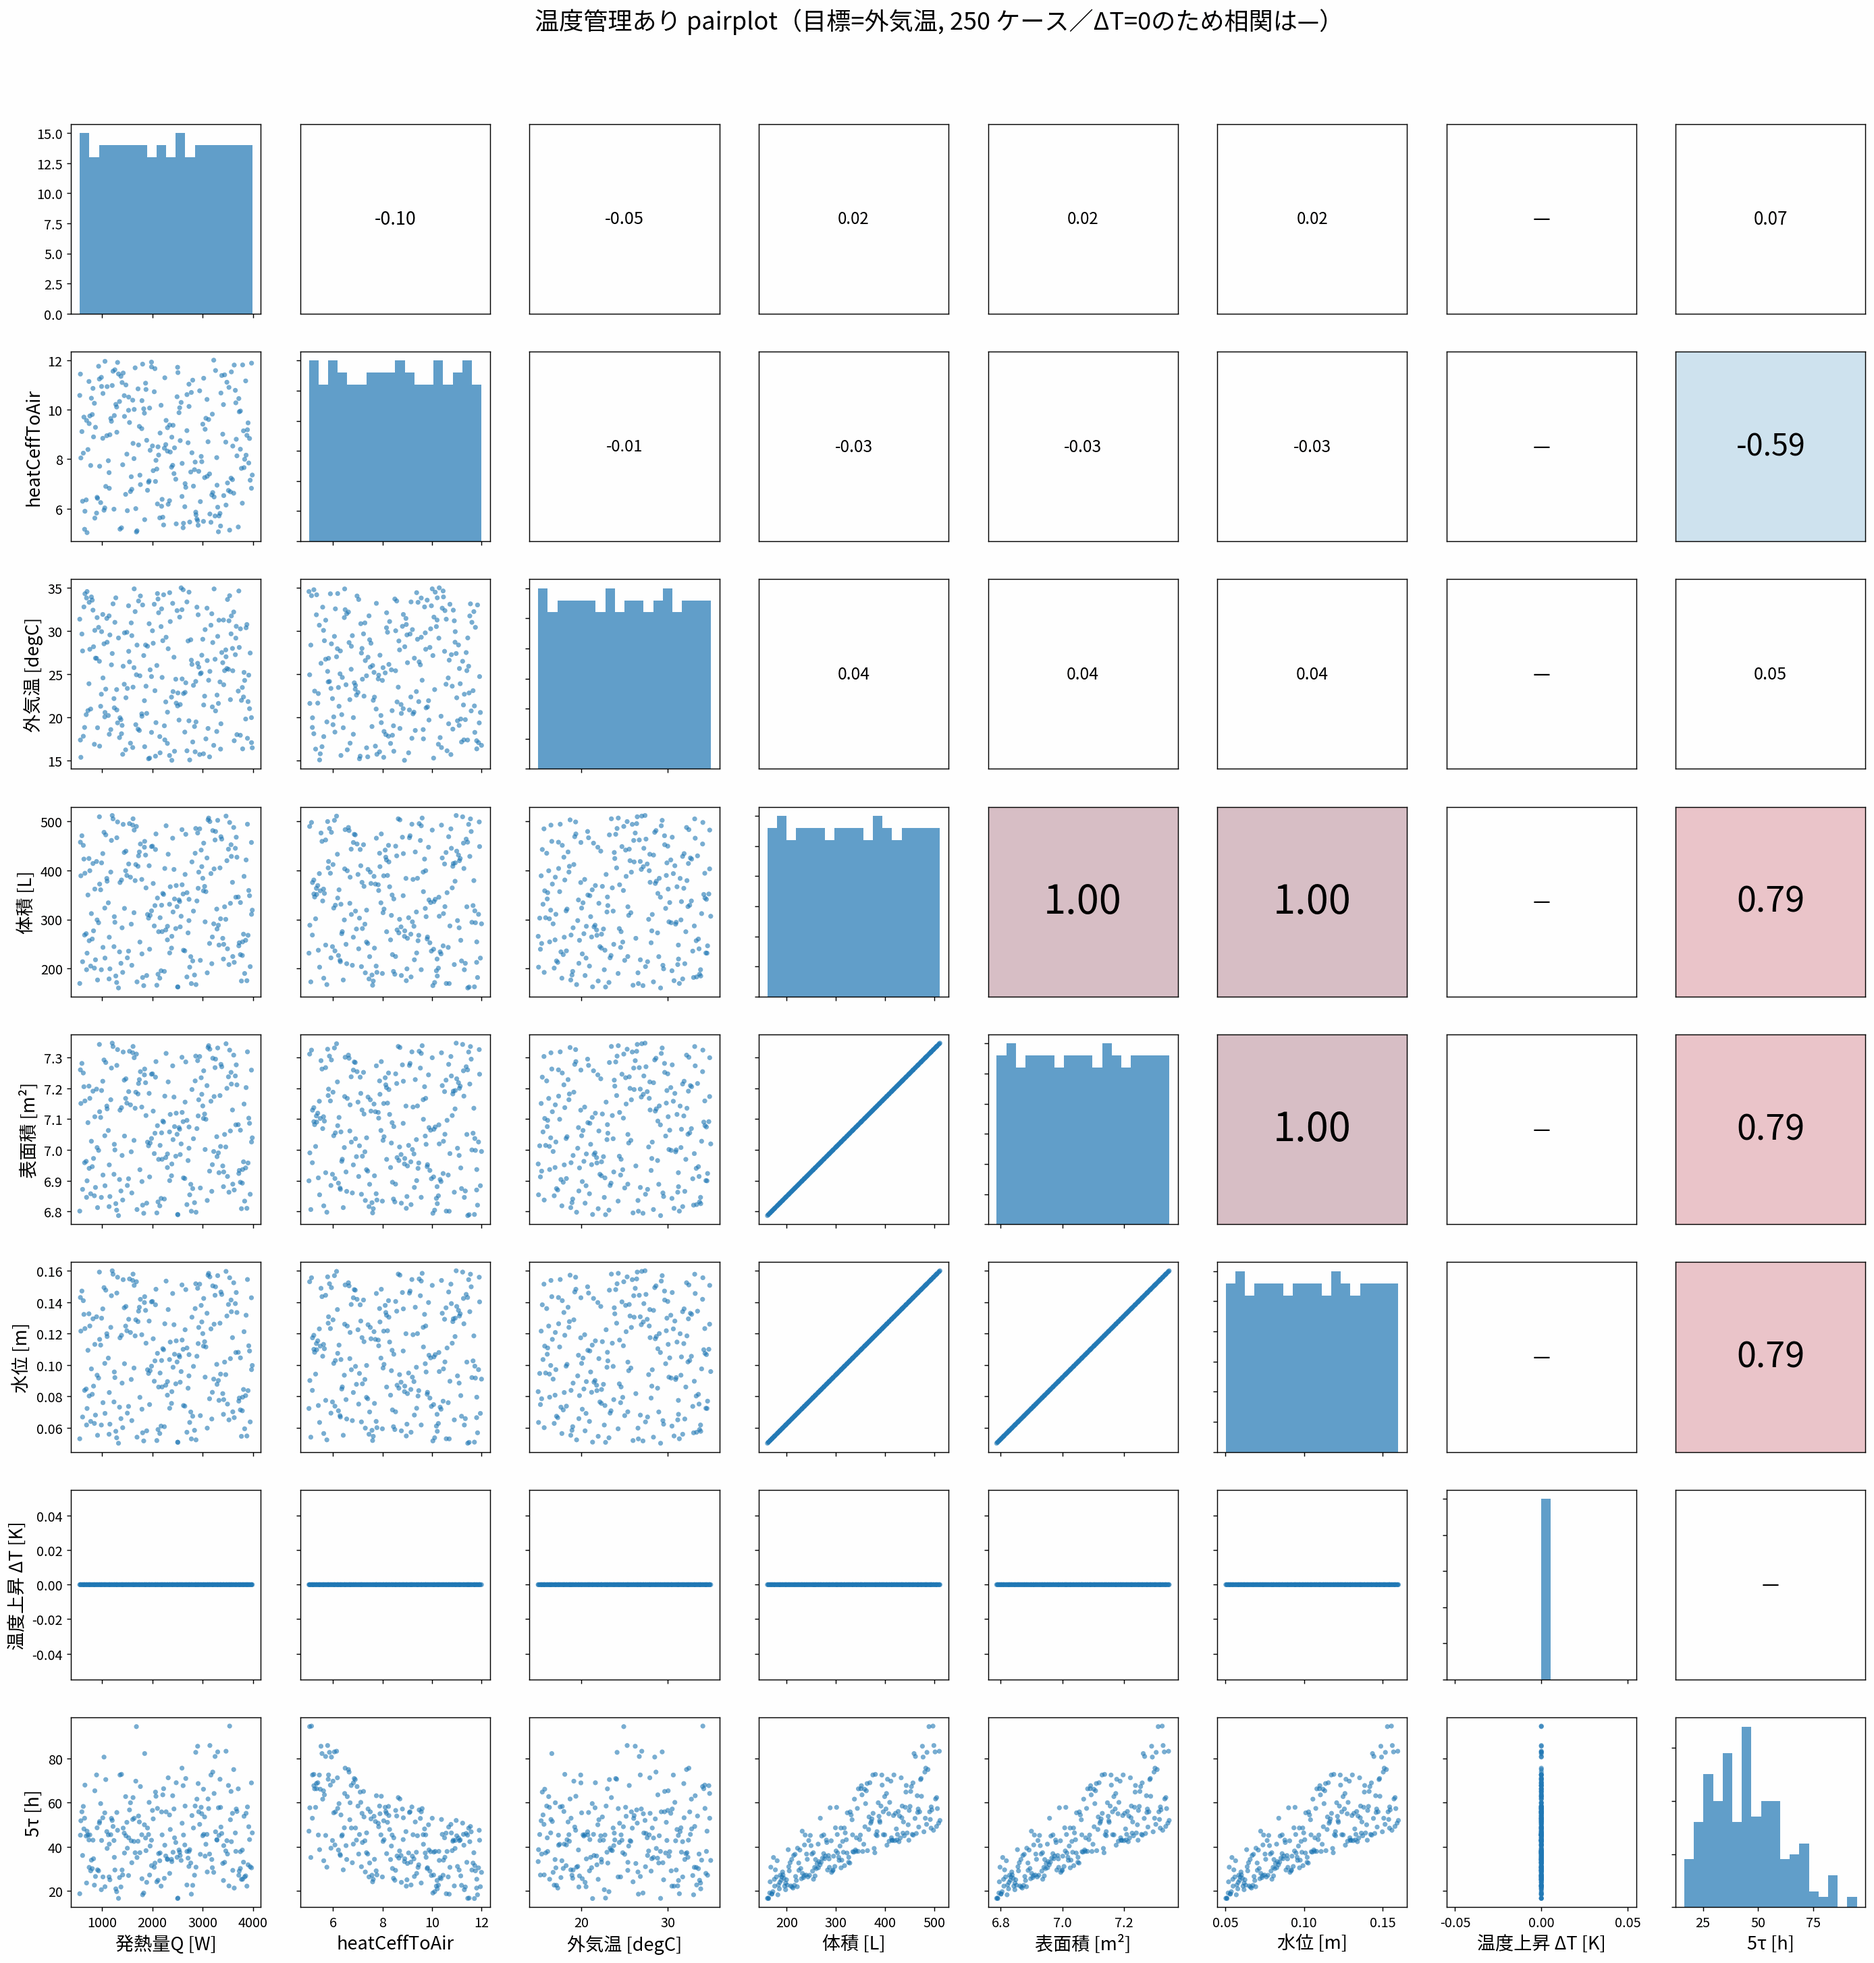
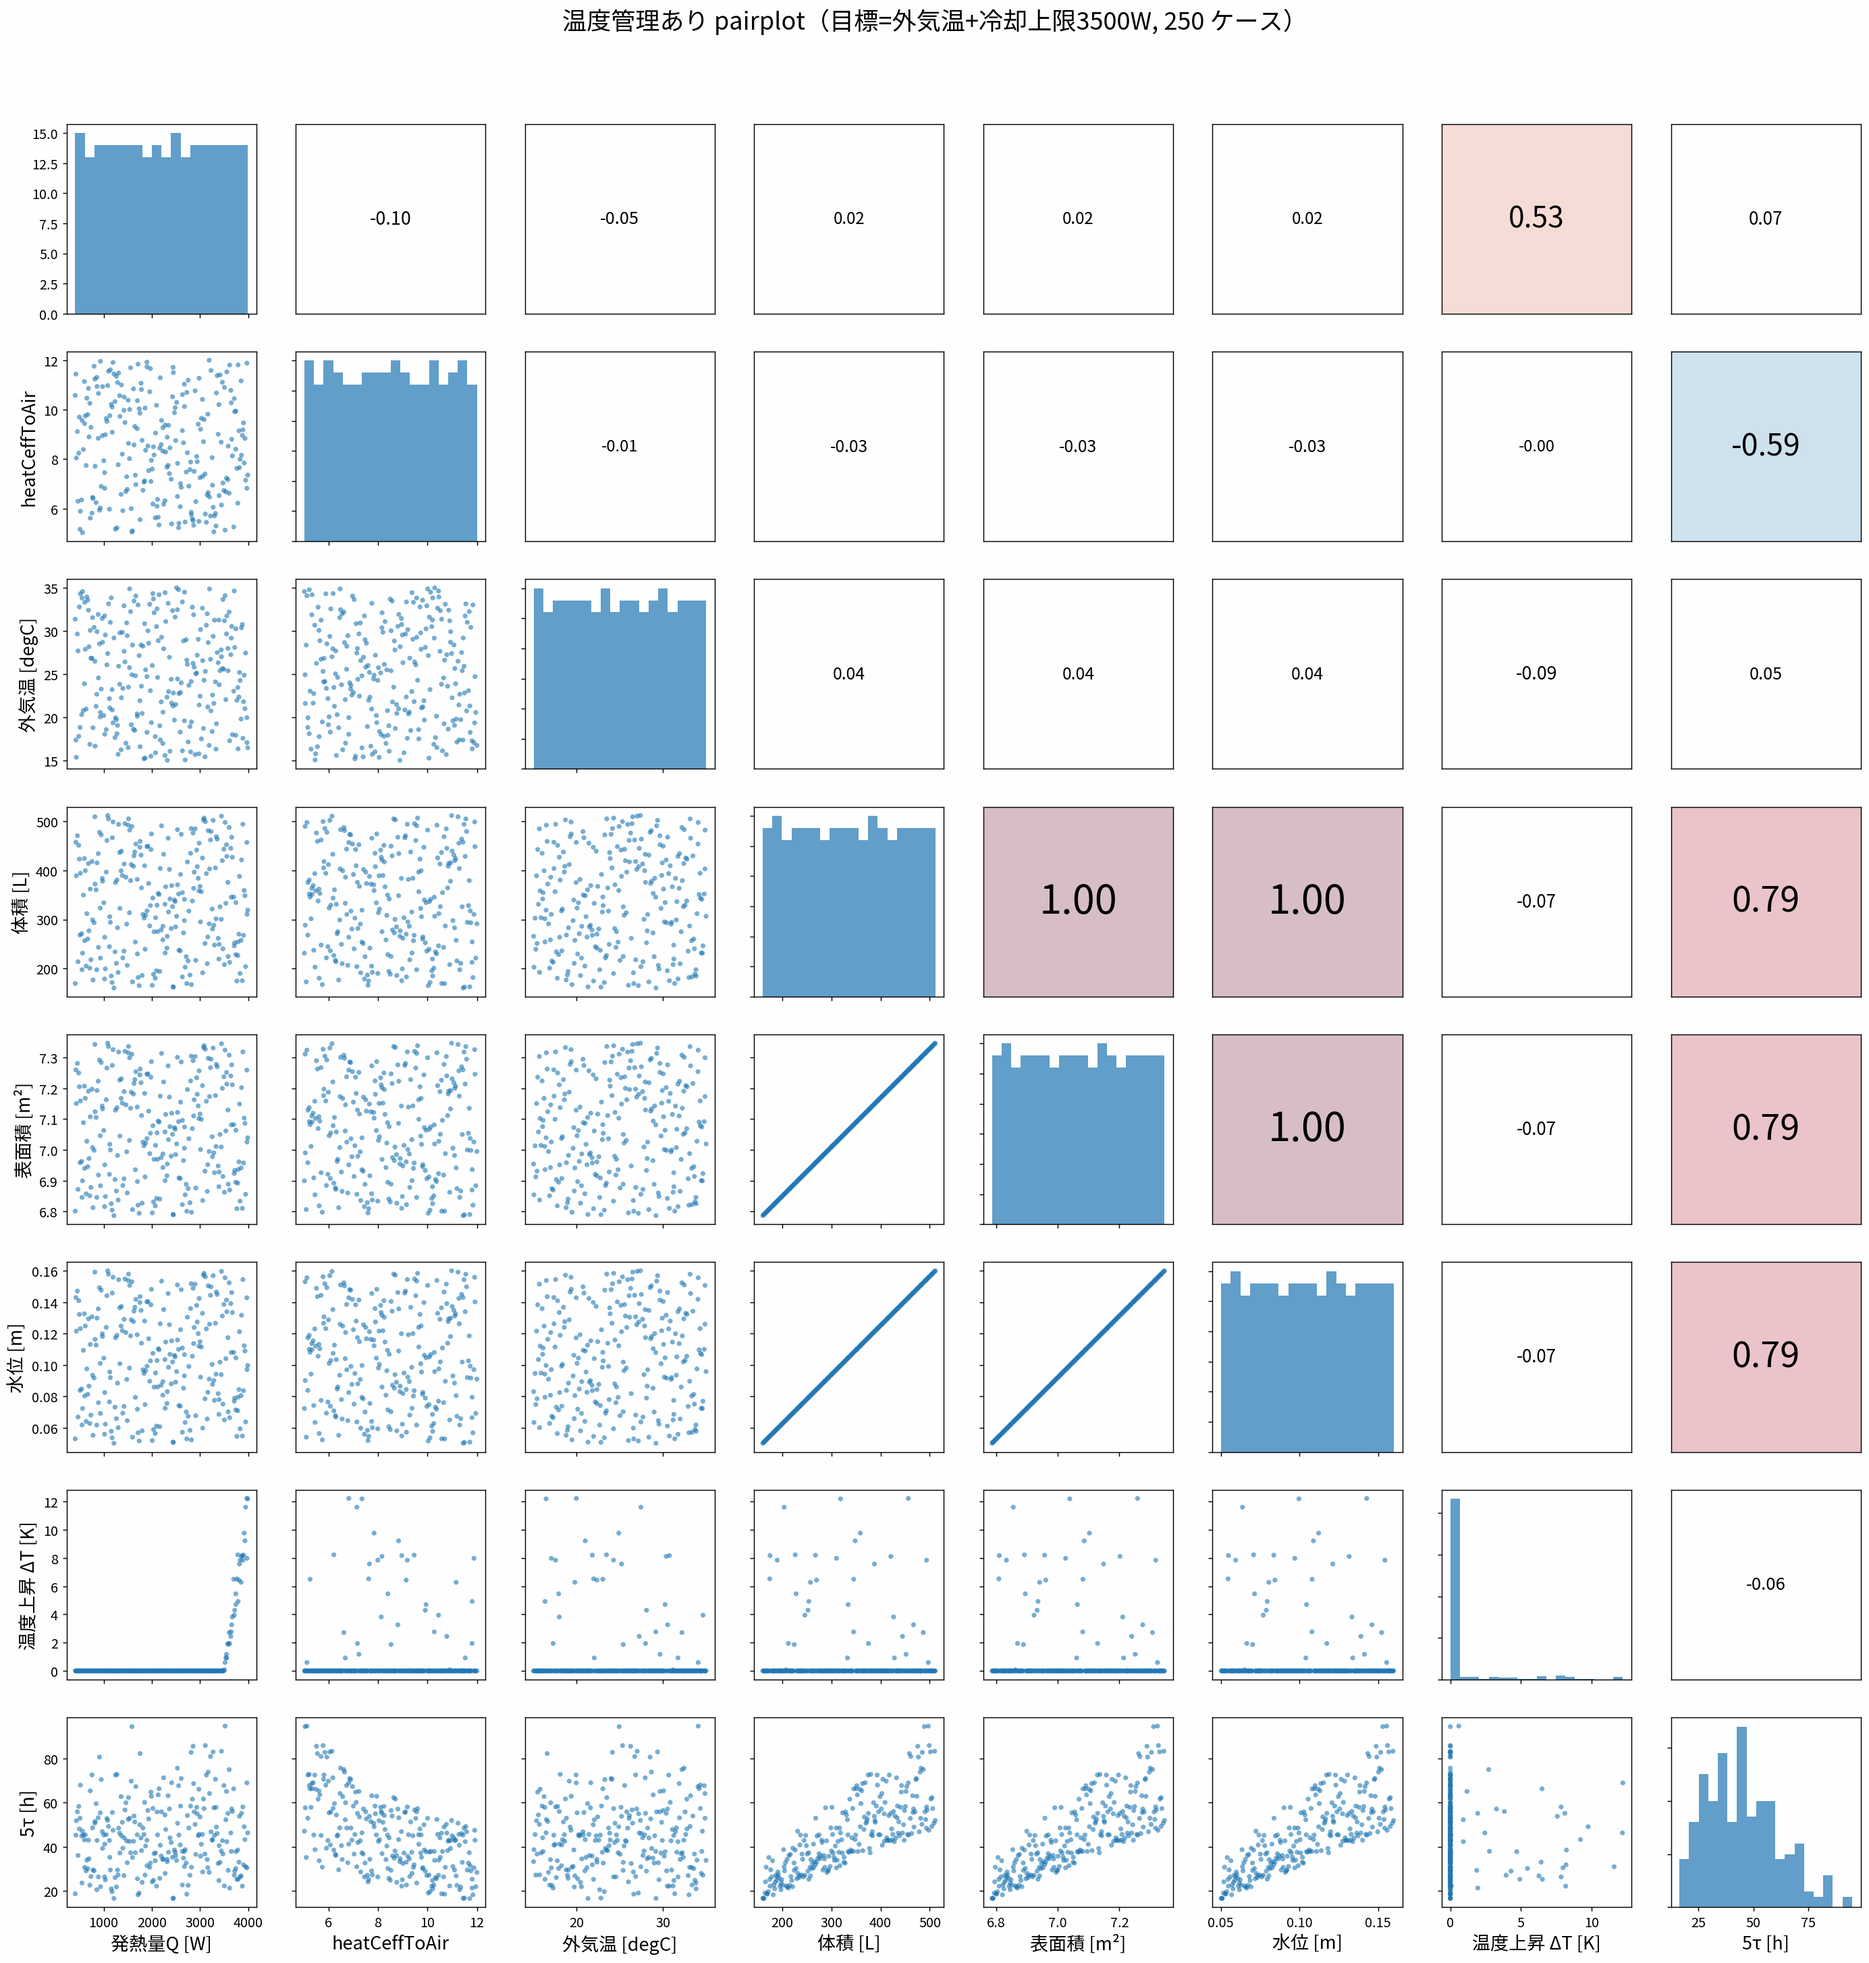
冷却能力上限(ダイキン3.5kW)の考察追加・Q範囲400-4000・pairplotあり側も上限超で上昇
- cooling_limit.py + cooling_limit.png: 温度管理ありで冷却量=発熱量(実機OM確認),
  冷却上限3500Wを超えると水温上昇(ΔT=(Q-3500)/UA, Q=4000で35℃/5000で57℃)。003 docsに考察
- pairplot_control: Q範囲を400-4000Wに, あり側ΔTを max(0,(Q-3500)/UA) に(冷却上限反映)
- 変更PNGを圧縮

Claude-Session: https://claude.ai/code/session_012Bb2Gqoegt25dmMh1N6dBX

diff --git a/003_tank_para/cooling_limit.py b/003_tank_para/cooling_limit.py
@@ -1,0 +1,97 @@
+# -*- coding: utf-8 -*-
+"""温度管理あり + 冷却能力の上限（例: ダイキン3.5kW=3500W）の考察グラフ。
+
+集中定数（フィット状態, UA=ua(8.79,0.0755)）で:
+  - 冷却量 = min(Q, Qcool_max)（目標=外気温を保つのに必要な除熱, ただし上限あり）
+  - 温度上昇 ΔT = max(0, (Q - Qcool_max)/UA)   （上限超過分が水温を上げる）
+無制限時の実機OM点（OM/_cooling_vs_Q.csv, 冷却量=Q）も重ねる。
+
+  python cooling_limit.py   -> docs/img/cooling_limit.png
+"""
+import os
+import glob
+import csv
+import numpy as np
+import matplotlib
+import matplotlib.pyplot as plt
+import matplotlib.font_manager as fm
+
+for cand in ["~/.fonts/NotoSansCJKjp-Regular.otf",
+             "/usr/share/fonts/truetype/droid/DroidSansFallbackFull.ttf",
+             "C:/Windows/Fonts/meiryo.ttc"]:
+    for p in glob.glob(os.path.expanduser(cand)):
+        try:
+            fm.fontManager.addfont(p)
+            matplotlib.rcParams["font.family"] = fm.FontProperties(fname=p).get_name()
+            break
+        except Exception:
+            pass
+    else:
+        continue
+    break
+matplotlib.rcParams["axes.unicode_minus"] = False
+
+HERE = os.path.dirname(os.path.abspath(__file__))
+IMG = os.path.join(HERE, "docs", "img")
+
+# UA（フィット点 heatCeffToAir=8.79, level=0.0755）
+th = 2.3 / 1000
+Lx1_1, Ly1_1 = 0.903, 0.479
+Lx2_1, Lx2_2, Ly2_1, Ly2_2 = 1.191, 0.478, 1.670, 0.337
+Lx3_1, Ly3_1 = 0.573, 1.191
+A1 = Lx1_1 * Ly1_1; A2 = Lx2_1 * Ly2_1 + Lx2_2 * Ly2_2; A3 = Lx3_1 * Ly3_1
+
+
+def ua(h_air, level, h_in=10.0, kground=80.0):
+    UA_air = h_air * (A1 + A2 + A3)
+
+    def g(Ain, Ac, Ag):
+        return 1 / (1 / (h_in * Ain) + 1 / (Ac * kground / th) + 1 / (h_air * Ag))
+    u1 = g(A1 + Ly1_1 * level, A1 + Lx1_1 * level + Ly1_1 * level, A1 + Ly1_1 * level)
+    a2 = A2 + (Ly2_1 + Lx2_1) * level
+    u2 = g(a2, A2 + (Lx2_1 + Ly2_1) * level, a2)
+    a3 = A3 + (Lx3_1 + Ly3_1) * level
+    u3 = g(a3, a3, a3)
+    return UA_air + u1 + u2 + u3
+
+
+UA = ua(8.79, 0.0755)
+Tamb = 24.5
+Qcap = 3500.0   # ダイキン3.5kW
+
+Q = np.linspace(0, 6000, 400)
+cool = np.minimum(Q, Qcap)                 # 冷却量[W]
+dT = np.maximum(0.0, (Q - Qcap) / UA)       # 温度上昇[K]
+Tw = Tamb + dT
+
+fig, (ax1, ax2) = plt.subplots(2, 1, figsize=(9, 8), sharex=True)
+
+# 上: 冷却量
+ax1.plot(Q, cool, "-", color="tab:blue", linewidth=2.6, label="冷却量（上限3500Wで頭打ち）")
+ax1.plot([0, 6000], [0, 6000], "--", color="gray", linewidth=1.3, label="上限なしなら 冷却量=発熱量")
+# 実機OM(無制限)点
+csvf = os.path.join(HERE, "OM", "_cooling_vs_Q.csv")
+if os.path.exists(csvf):
+    rows = list(csv.DictReader(open(csvf)))
+    qi = [float(r["Q_in"]) for r in rows]; qc = [abs(float(r["Q_cool"])) for r in rows]
+    ax1.plot(qi, qc, "ks", markersize=7, label="実機OM(無制限)")
+ax1.axvline(Qcap, color="tab:red", ls=":", linewidth=1.8)
+ax1.axhline(Qcap, color="tab:red", ls=":", linewidth=1.2)
+ax1.set_ylabel("冷却量 [W]", fontsize=13); ax1.grid(True, alpha=0.4); ax1.legend(fontsize=10)
+ax1.set_title("温度管理あり＋冷却能力上限3500W(ダイキン3.5kW)の影響", fontsize=13)
+
+# 下: 水温
+ax2.plot(Q, Tw, "-", color="tab:red", linewidth=2.6)
+ax2.axhline(Tamb, color="gray", ls="--", linewidth=1.2, label="外気温 %.1f℃" % Tamb)
+ax2.axvline(Qcap, color="tab:red", ls=":", linewidth=1.8, label="冷却上限 %.0f W" % Qcap)
+ax2.annotate("Q≤3500: 水温=外気温(制御成立)", (1500, Tamb + 0.6), fontsize=10, color="tab:blue")
+ax2.annotate("Q>3500: 冷却飽和→水温上昇\nΔT=(Q-3500)/UA", (3800, Tamb + 8), fontsize=10, color="tab:red")
+ax2.set_xlabel("発熱量 Q [W]", fontsize=13); ax2.set_ylabel("水温 [degC]", fontsize=13)
+ax2.grid(True, alpha=0.4); ax2.legend(fontsize=10)
+
+plt.tight_layout()
+out = os.path.join(IMG, "cooling_limit.png")
+plt.savefig(out, dpi=150, bbox_inches="tight")
+print("UA=%.1f W/K, 上限3500W → Q=4000で水温=%.1f℃, Q=5000で%.1f℃" %
+      (UA, Tamb + max(0, (4000 - Qcap) / UA), Tamb + max(0, (5000 - Qcap) / UA)))
+print("saved:", out)

diff --git a/003_tank_para/pairplot_control.py b/003_tank_para/pairplot_control.py
@@ -4,7 +4,7 @@
 設計因子（LHS）: 発熱量Q, 外気側熱伝達率 heatCeffToAir, 水位 level, 外気温 Tair。
 各設計点について 2 条件を評価する:
   - 温度管理なし: 水温は Tair + Q/UA まで上昇（温度上昇 ΔT = Q/UA）
-  - 温度管理あり: PIDが目標=外気温に保持 → 水温=外気温（ΔT ≒ 0。15℃なら15℃）
+  - 温度管理あり: 目標=外気温。冷却上限(3500W)まで水温=外気温, 超過分は ΔT=(Q-3500)/UA
 pairplot は点を **温度管理あり(青)／なし(赤)** で色分けする。
 
   python pairplot_control.py [--n 250]
@@ -131,14 +131,16 @@ def main():
     args = ap.parse_args()
     n = args.n
 
-    X = lhs(n, [(550.0, 4000.0), (5.0, 12.0), (0.05, 0.16), (15.0, 35.0)])
+    X = lhs(n, [(400.0, 4000.0), (5.0, 12.0), (0.05, 0.16), (15.0, 35.0)])
     Q, h_air, level, Tair = X.T
     UA = np.array([ua(h_air[k], level[k]) for k in range(n)])
     tau5 = np.array([5 * cap(level[k]) / UA[k] / 3600.0 for k in range(n)])
 
-    # なし: ΔT=Q/UA、あり: ΔT=0（目標=外気温）
+    # なし: ΔT=Q/UA
+    # あり: 目標=外気温。冷却上限 Qcool_max まではΔT=0、超えると ΔT=(Q-Qcool_max)/UA
+    Qcool_max = 3500.0   # ダイキン3.5kW
     dT_off = Q / UA
-    dT_on = np.zeros(n)
+    dT_on = np.maximum(0.0, (Q - Qcool_max) / UA)
 
     # 2条件を積む
     def stack(a_off, a_on):
@@ -153,9 +155,9 @@ def main():
     pairplot1(data_off, labels, "tab:red", os.path.join(IMG, "pairplot_control_off.png"),
               "温度管理なし pairplot（%d ケース, 上三角=相関係数）" % n)
     pairplot1(data_on, labels, "tab:blue", os.path.join(IMG, "pairplot_control_on.png"),
-              "温度管理あり pairplot（目標=外気温, %d ケース／ΔT=0のため相関は—）" % n)
+              "温度管理あり pairplot（目標=外気温+冷却上限3500W, %d ケース）" % n)
     print("温度管理なし %d ケース, あり %d ケース（計 %d）" % (n, n, 2 * n))
-    print("なし: ΔT=%.1f〜%.1f K (Q/UA)  /  あり: ΔT=0 (水温=外気温)" % (dT_off.min(), dT_off.max()))
+    print("なし: ΔT=%.1f〜%.1f K / あり: ΔT=%.1f〜%.1f K (冷却上限%.0fW超で上昇)" % (dT_off.min(), dT_off.max(), dT_on.min(), dT_on.max(), Qcool_max))
     print("saved:", os.path.join(IMG, "pairplot_control_off.png"), "/ _on.png")
 
 

diff --git a/003_tank_para/docs/README.md b/003_tank_para/docs/README.md
@@ -85,6 +85,33 @@ python param_study.py pareto --csv results.csv
 
 ---
 
+## 4b. 冷却能力の上限（ダイキン 3.5kW）の考察
+
+温度管理あり（目標＝外気温）では、制御が**入った熱をそのまま除去**して水温を外気温に保つ。
+定常のエネルギー収支は
+$$Q_{冷却} = Q_{発熱} - UA\,(T_水 - T_{外気})$$
+制御成立時は \(T_水=T_{外気}\) なので **冷却量＝発熱量**（実機OMでも Q=610→607W, 2500→2487W と一致）。
+
+**ただし冷却能力には上限がある。** ダイキンのカタログ「3.5kW」は**定格冷房能力＝除去できる熱量 3500W**
+（消費電力ではない）。上限 \(Q_{冷却,max}=3500\,\mathrm{W}\) を入れると：
+
+![冷却上限の影響](img/cooling_limit.png)
+
+- **Q ≤ 3500W**：冷却が追いつき **水温＝外気温**（ΔT=0, 制御成立）。
+- **Q > 3500W**：冷却が **3500W で頭打ち**。超過分が水を温め、
+  $$\Delta T = \frac{Q - 3500}{UA},\quad UA\approx 45.8\ \mathrm{W/K}$$
+  → **Q=4000W で水温 35.4℃、Q=5000W で 57.3℃**（外気24.5℃基準）。
+
+**考察**：この系（サイクロン発熱610W）なら 3.5kW エアコン1台で十分に温度管理できる（余裕大）。
+だが発熱が 3.5kW を超える運用（複数熱源や高負荷）では、**1台では設定温度を保てず水温が上昇**する。
+必要冷却能力の目安は「総発熱量 ＋ 若干のマージン」。外気温が高いほど定格能力が落ちる点にも注意
+（カタログ定格は標準条件での値）。
+
+> 実装上、OM の PID 出力制限（LimPID の yMin）で冷却上限を課す方法は本環境で未反映のため、
+> 上図は集中定数（フィット UA）での解析。無制限時の実機OM点（■）を重ねて整合を示している。
+
+---
+
 ## 5. 補足
 - 集中定数（Python）と実機OMは基準36.1℃・フィット37.8℃・タンク差0.06℃で一致を確認済み（002/003）。
 - 温度管理あり模型 `OM/ana003_Tank3blocks_cyclononly.mo` は PID レギュレータ。目標を外気温に
